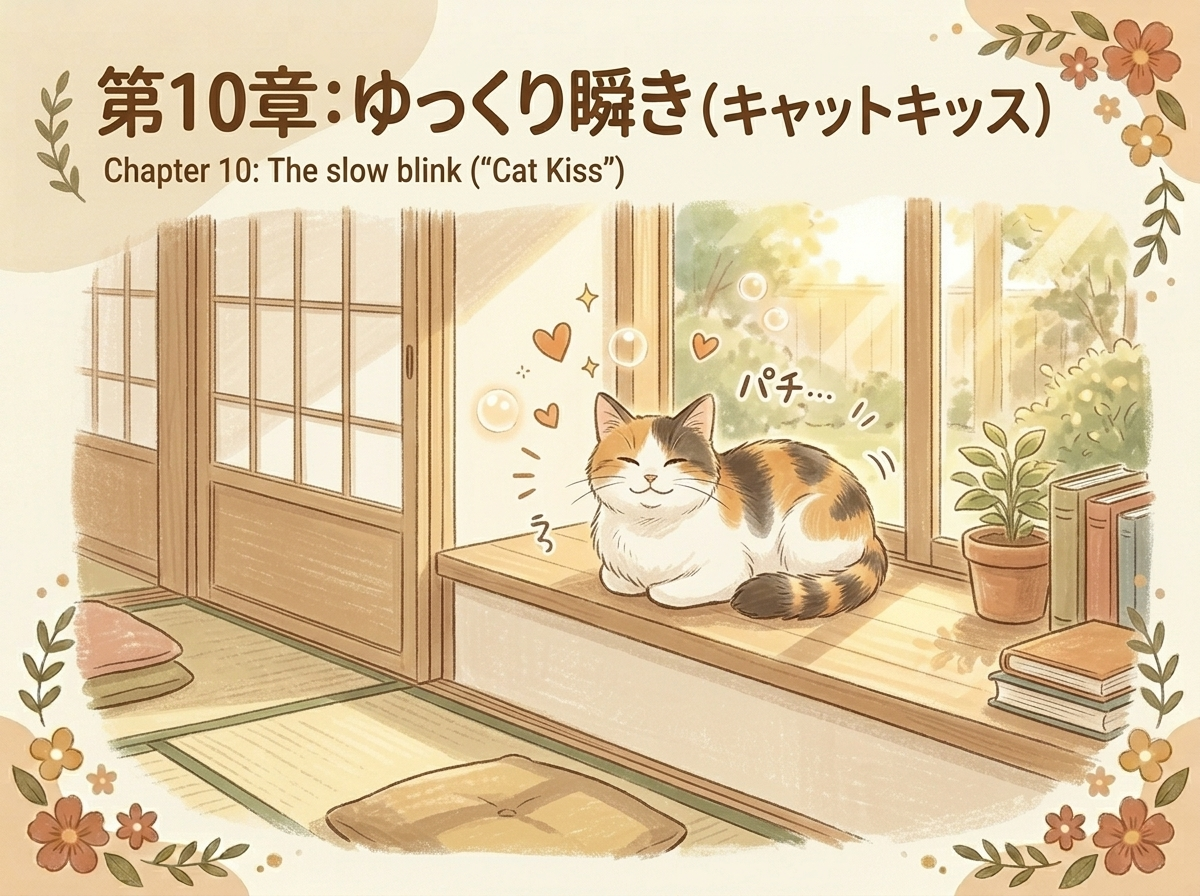
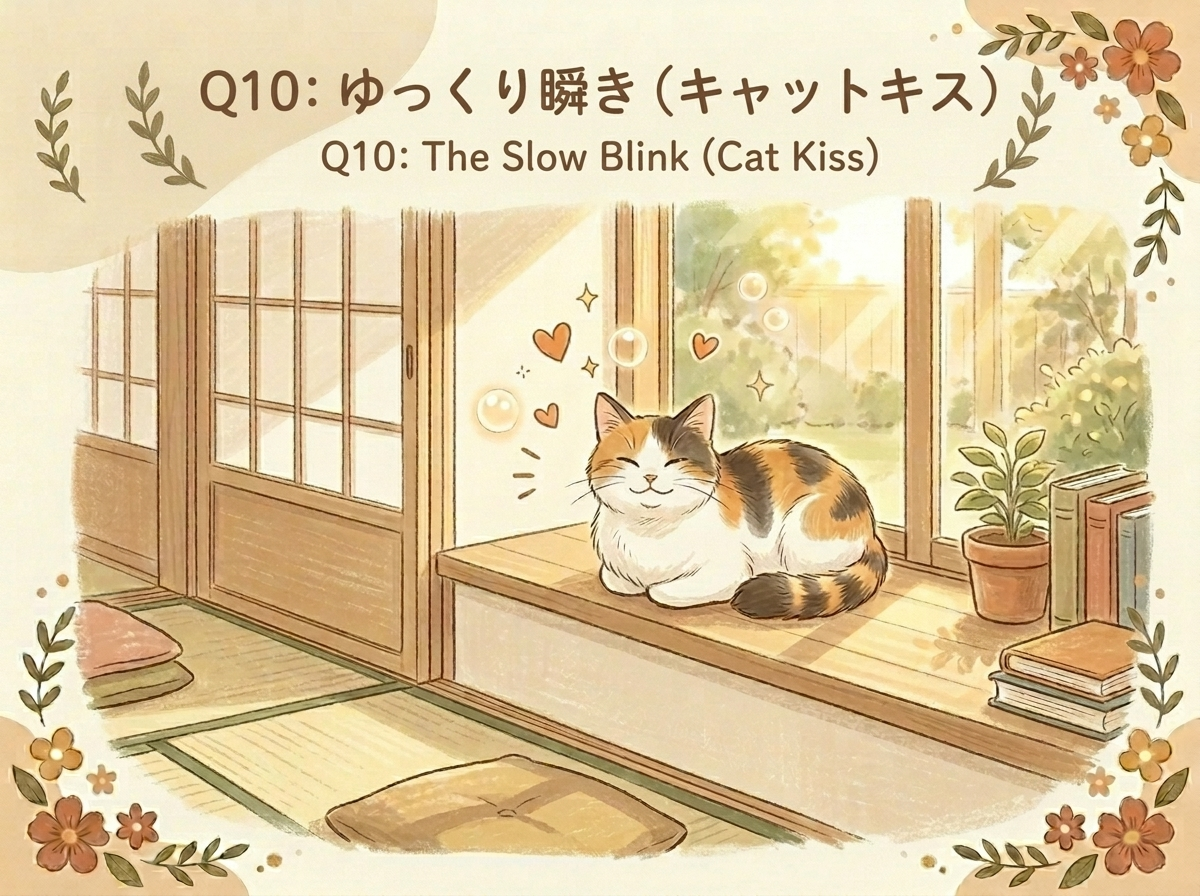
fix: align cat FAQ illustrations with unified Q1-Q10 headers and update copy

diff --git a/src/components/about/CatFAQSection.tsx b/src/components/about/CatFAQSection.tsx
@@ -139,10 +139,10 @@ export function CatFAQSection() {
             </div>
             <div className="flex min-w-0 flex-1 flex-col justify-center p-5 sm:p-7 md:p-8">
               <p className="text-xs font-semibold tracking-[0.16em] text-[#A47A4F]">
-                {isEn ? `CAT NOTES · ${String(index + 1).padStart(2, "0")}` : `貓咪小問答 · ${String(index + 1).padStart(2, "0")}`}
+                {isEn ? "CAT NOTES" : "貓咪小問答"}
               </p>
               <h3 className="mt-2 text-lg font-bold leading-snug text-[#3E2B20] sm:text-xl">
-                {copy(faq.question)}
+                {`Q${index + 1}: ${copy(faq.question)}`}
               </h3>
               <p className="mt-4 text-sm leading-7 text-[#67584C] sm:text-base sm:leading-8">
                 {copy(faq.answer)}
